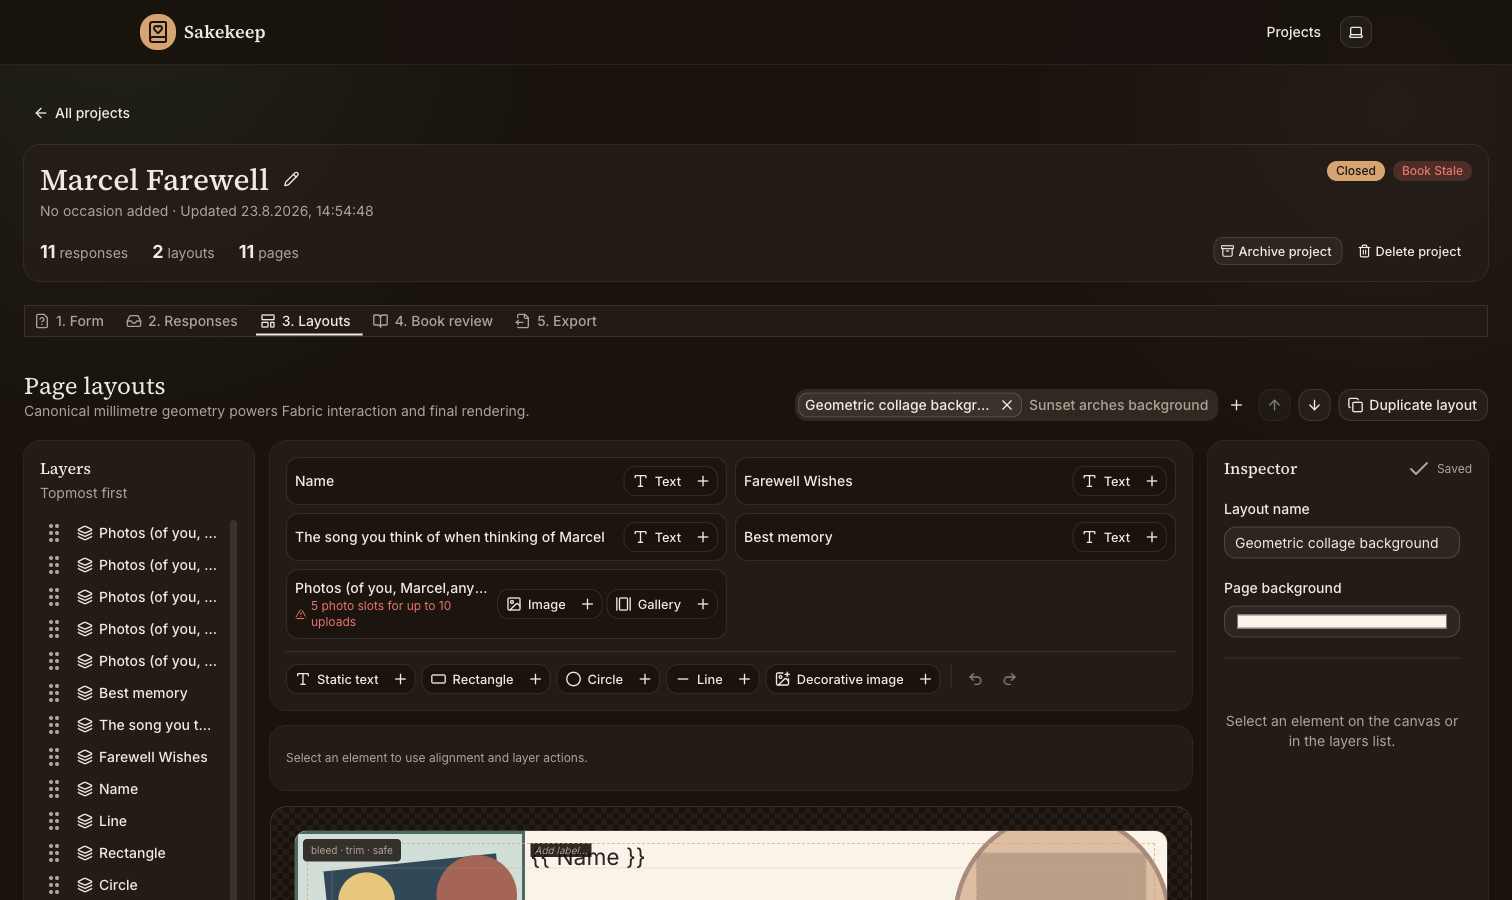
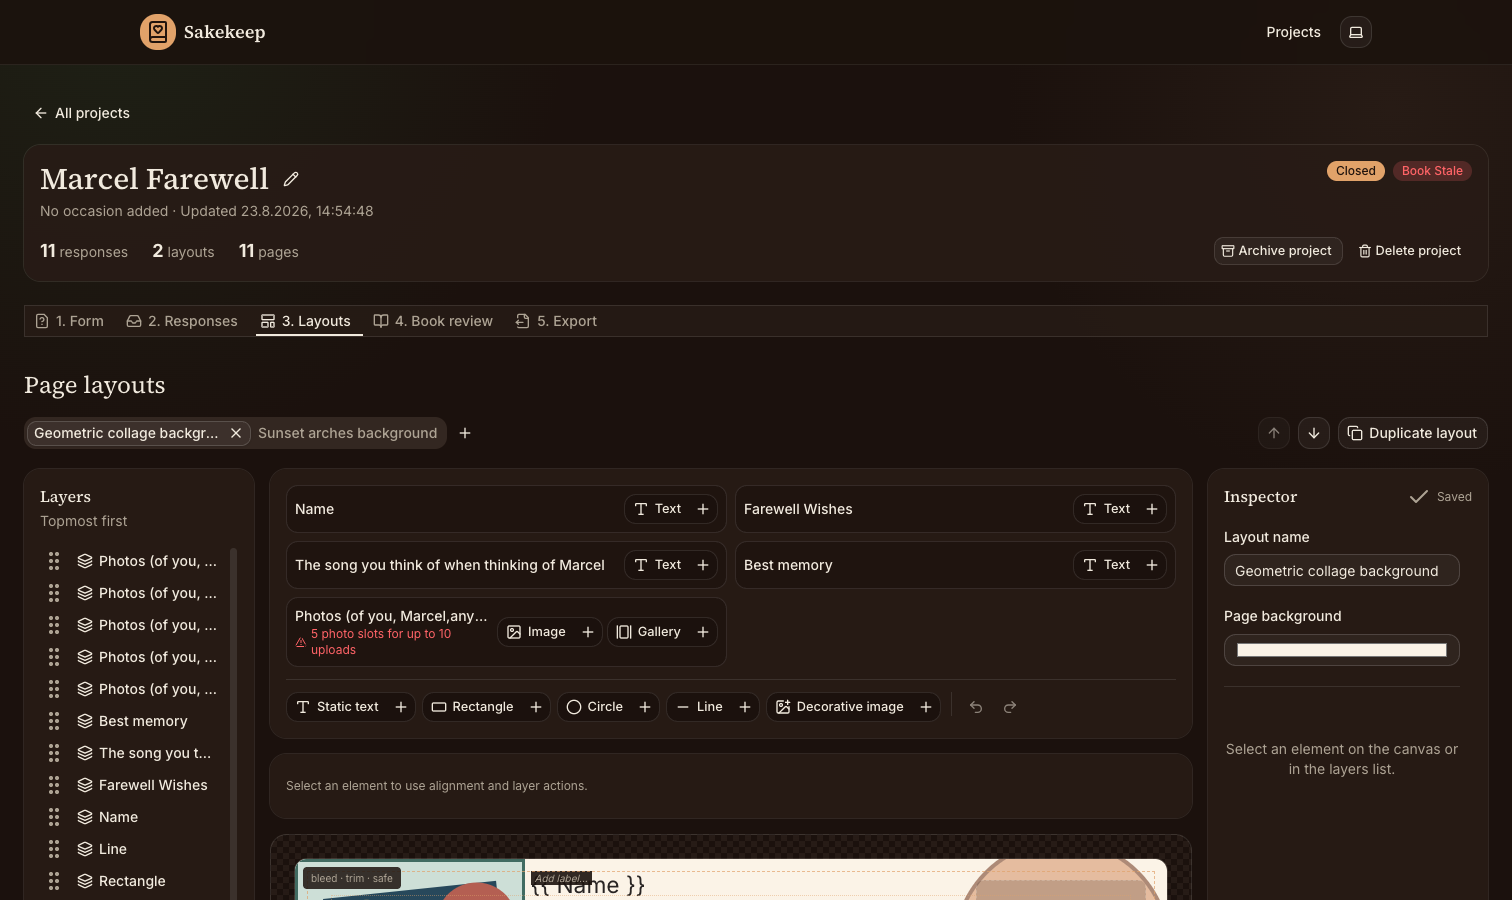
fix(layouts): align layout tabs below heading
Summary:
- move the layout tabs to the left below the section heading
- remove the internal geometry helper copy
- keep the new-layout button grouped directly after the tabs
- refresh the pull request screenshot

Rationale:
- give the layout switcher a clear browser-style reading order

Tests:
- bun run format:check
- bun run lint
- bun run typecheck
- bun run test
- focused Playwright layout editor and creation tests

AI-Assisted: true
AI-Agent: codex
AI-Model: openai/gpt-5.6-sol

diff --git a/src/components/layout-editor.tsx b/src/components/layout-editor.tsx
@@ -1467,20 +1467,11 @@ export function LayoutsPanel({
 
   return (
     <div className="flex flex-col gap-5">
-      <div className="flex flex-col justify-between gap-4 lg:flex-row lg:items-end">
-        <div>
-          <h2 className="font-heading text-2xl">Page layouts</h2>
-          <p className="text-sm text-muted-foreground">
-            Canonical millimetre geometry powers Fabric interaction and final rendering.
-          </p>
-        </div>
+      <div className="flex flex-col gap-4">
+        <h2 className="font-heading text-2xl">Page layouts</h2>
         <div className="flex min-w-0 flex-wrap items-center gap-2">
           <div className="flex min-w-0 flex-1 items-center gap-1">
-            <Tabs
-              className="min-w-0 flex-1"
-              value={selected?.id ?? ""}
-              onValueChange={setSelectedId}
-            >
+            <Tabs className="min-w-0" value={selected?.id ?? ""} onValueChange={setSelectedId}>
               <TabsList className="max-w-full justify-start overflow-x-auto">
                 {project.layouts.map((layout) => {
                   const active = layout.id === selected?.id
